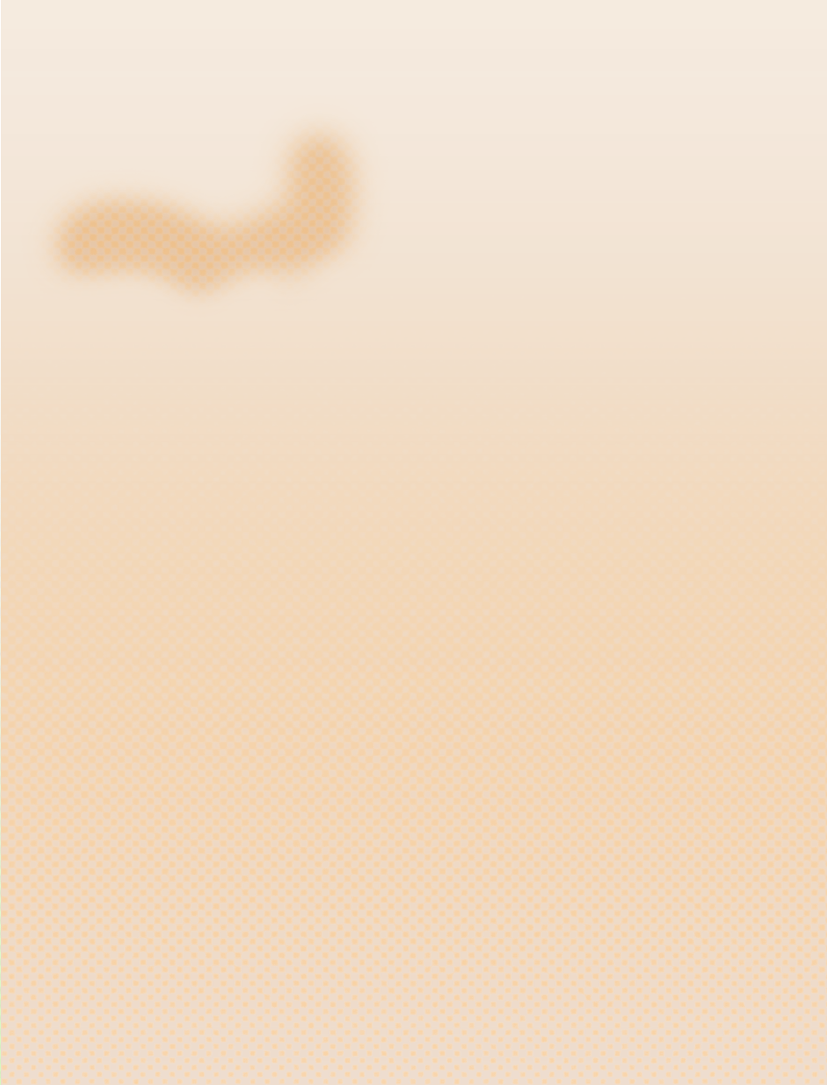
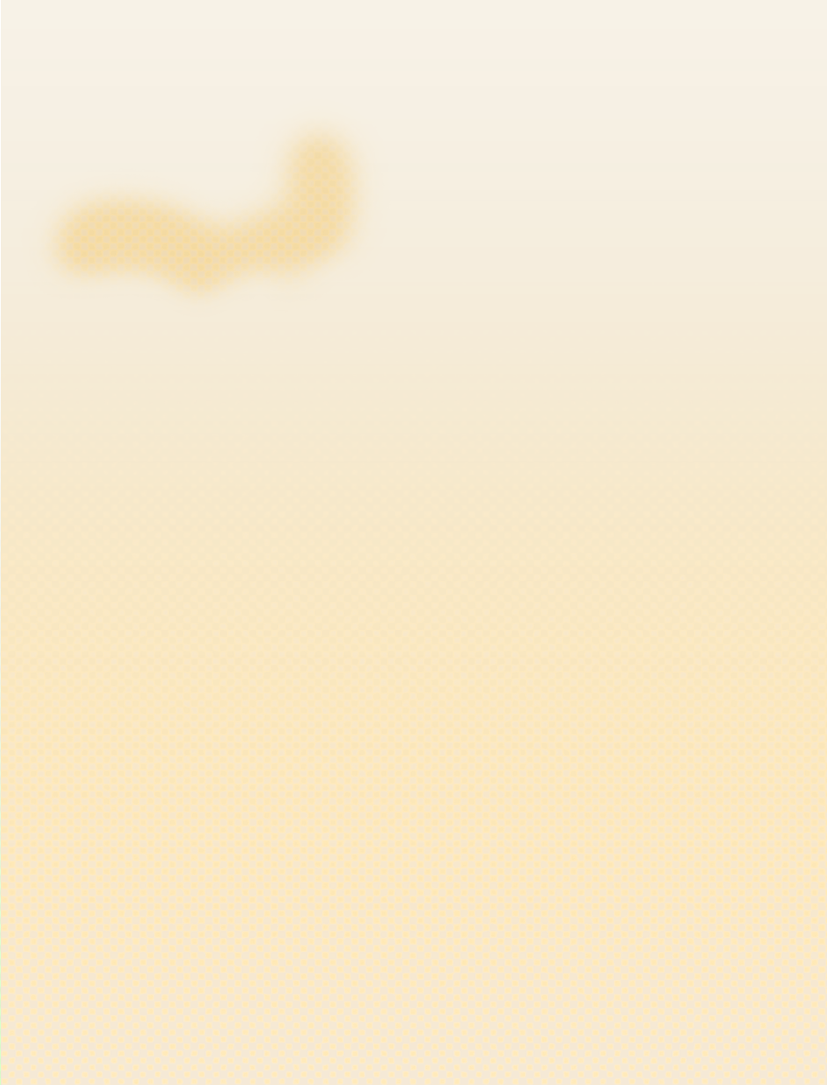
Carta da Firebirds Atualizada

Changed region(s): [[0.0605, 0.1217, 0.4232, 0.2737]]

diff --git a/css/carta.css b/css/carta.css
@@ -148,13 +148,13 @@
 }
 /*Yellow*/
 .yellowNome{
-    color: rgb(70, 23, 9);
+    color: rgb(72, 33, 5);
 }
 .yellowCusto{
-    color: rgb(255, 237, 74);
+    color: rgb(247, 222, 177);
 }
 .yellowLendaEHierarquia{
-    color: rgb(110, 49, 15);
+    color: rgb(89, 33, 10);
 }
 /*Sem Clã*/
 .semNome{
